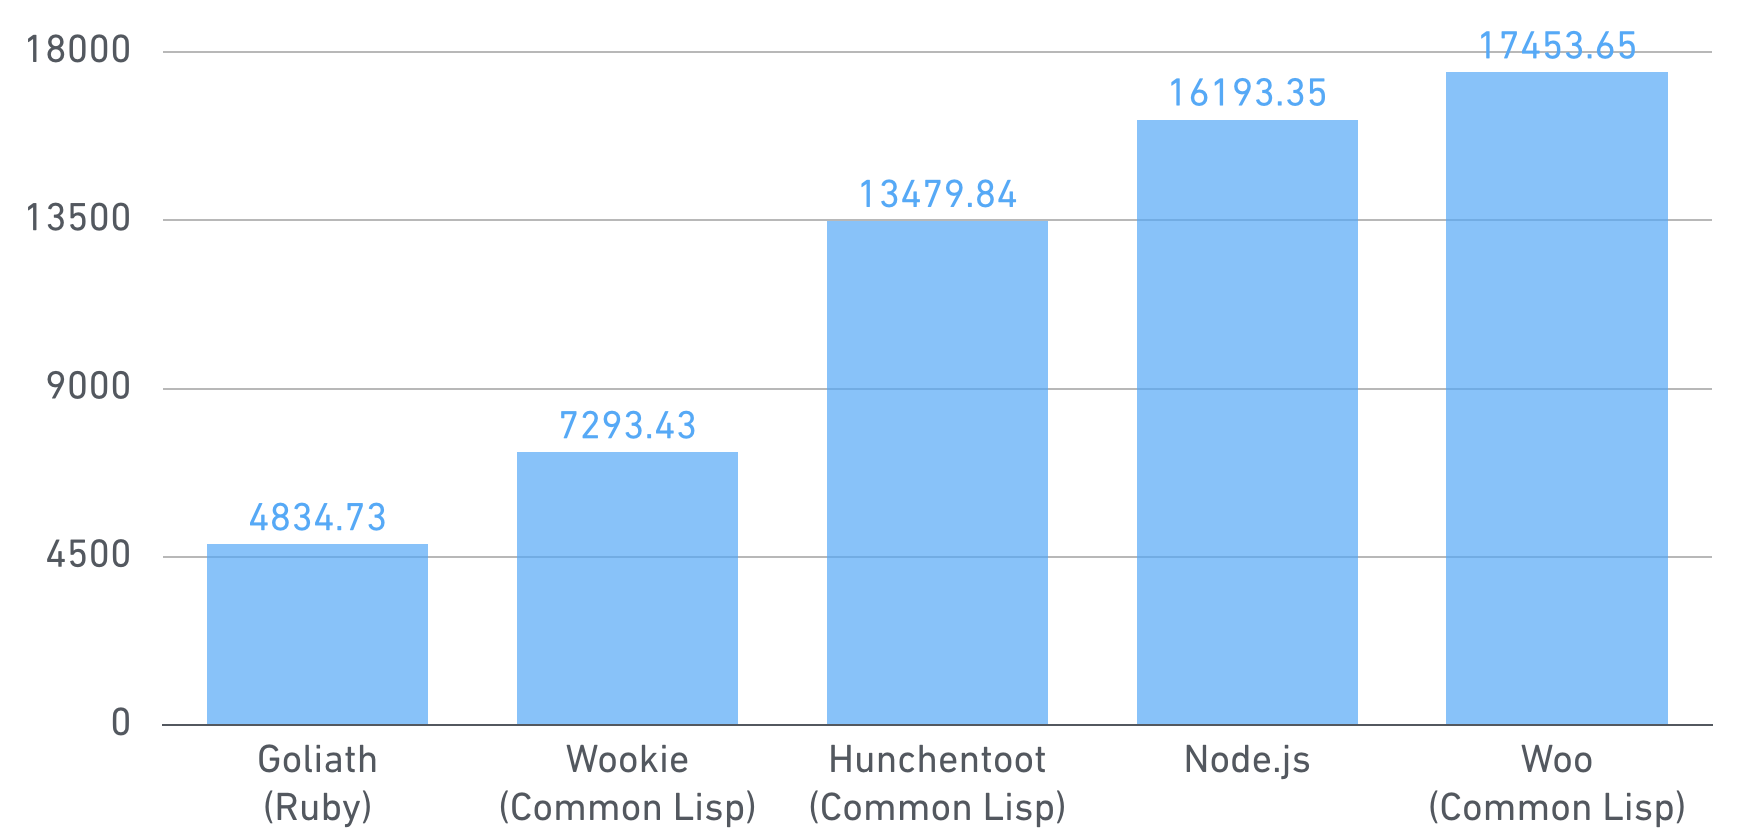
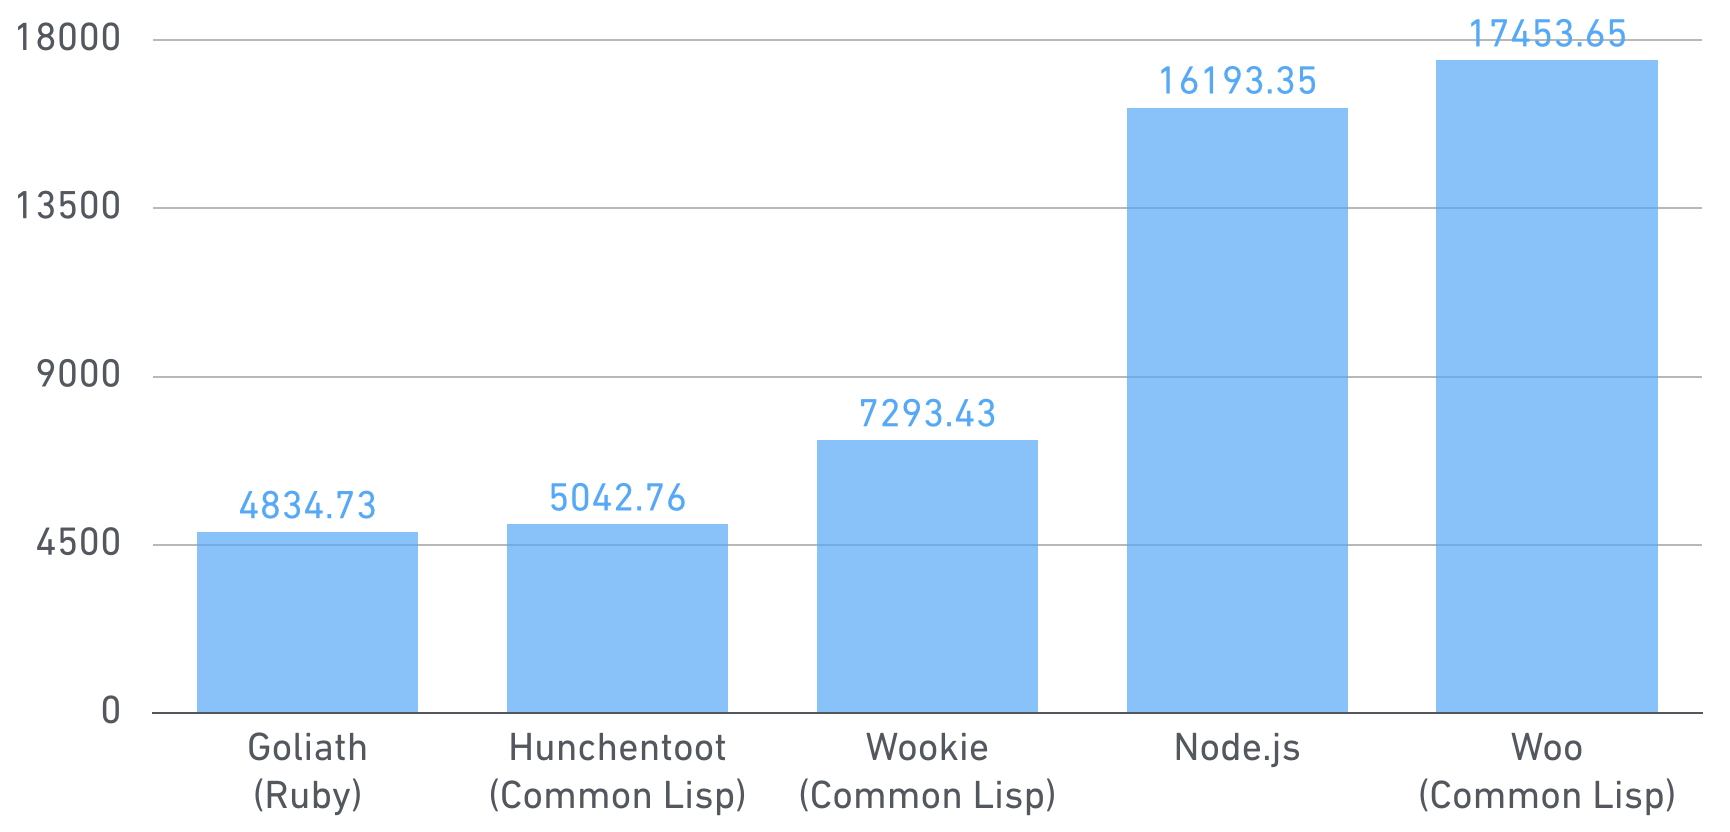
Update the benchmark result of Hunchentoot.

Changed region(s): [[0.0, 0.0, 0.9676, 1.0], [0.0, 0.2188, 0.6555, 0.6875], [0.6243, 0.625, 0.6555, 0.6875]]

diff --git a/README.md b/README.md
@@ -87,6 +87,24 @@ Requests/sec:   4834.73
 Transfer/sec:    495.75KB
 ```
 
+### Hunchentoot (Common Lisp)
+
+```
+$ sbcl --load benchmark/hunchentoot.lisp
+```
+
+```
+Running 5s test @ http://127.0.0.1:5000
+  5 threads and 15 connections
+  Thread Stats   Avg      Stdev     Max   +/- Stdev
+    Latency   150.77us   86.97us   3.83ms   99.61%
+    Req/Sec     6.57k   612.06     7.33k    65.92%
+  30260 requests in 6.00s, 4.53MB read
+  Socket errors: connect 0, read 0, write 0, timeout 35
+Requests/sec:   5042.76
+Transfer/sec:    773.16KB
+```
+
 ### Wookie (Common Lisp)
 
 ```
@@ -102,23 +120,6 @@ Running 5s test @ http://127.0.0.1:5000
   36453 requests in 5.00s, 4.00MB read
 Requests/sec:   7293.43
 Transfer/sec:    819.09KB
-```
-
-### Hunchentoot (Common Lisp)
-
-```
-$ sbcl --load benchmark/hunchentoot.lisp
-```
-
-```
-Running 5s test @ http://127.0.0.1:5000
-  5 threads and 15 connections
-  Thread Stats   Avg      Stdev     Max   +/- Stdev
-    Latency   257.55ms  492.78ms   1.39s    78.26%
-    Req/Sec     3.01k     2.31k    9.89k    63.07%
-  67367 requests in 5.00s, 10.09MB read
-Requests/sec:  13479.84
-Transfer/sec:      2.02MB
 ```
 
 ### Node.js http module
